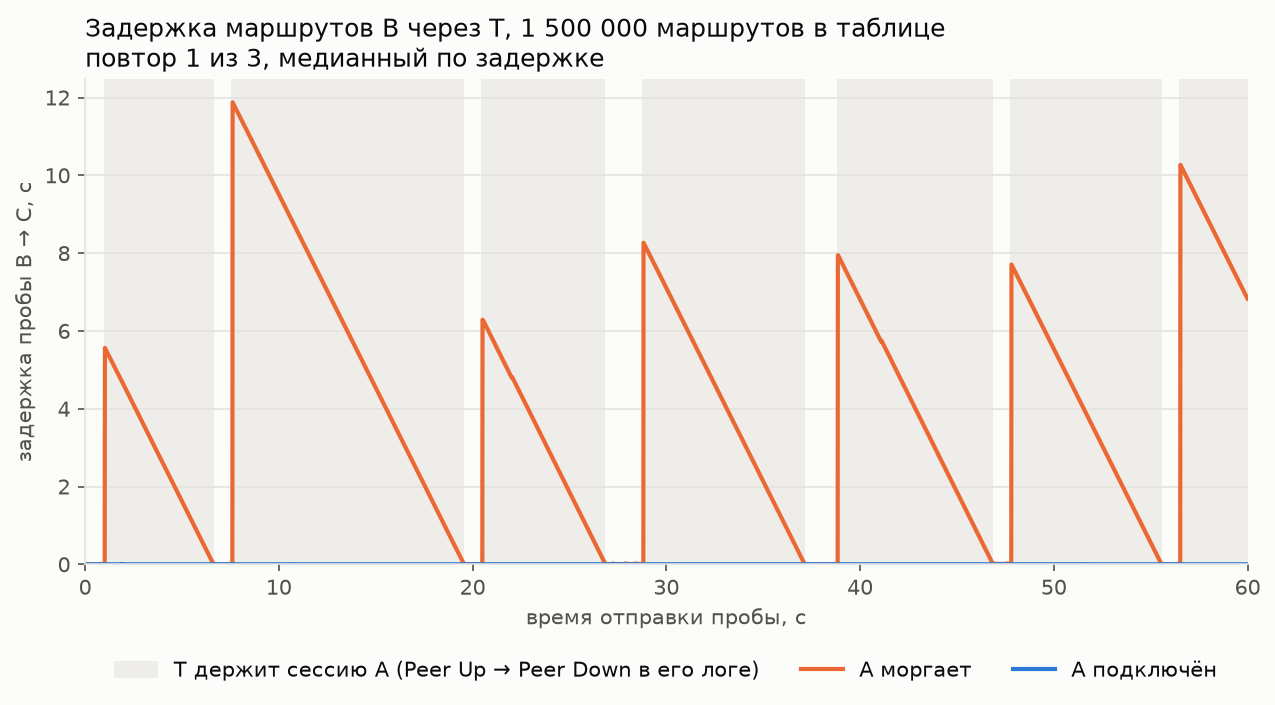
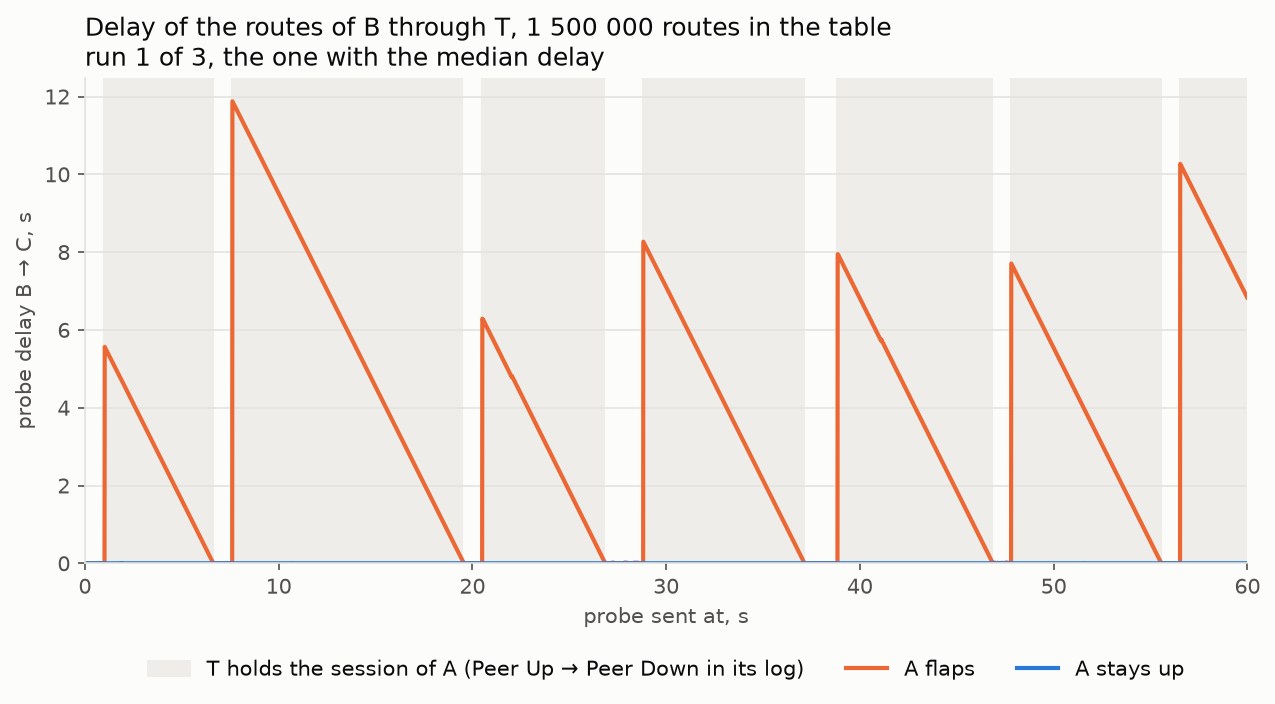
studies/2026-11-peer-flap: in English, as the other studies
Assisted-by: Claude Opus 5.5 <noreply@anthropic.com>

diff --git a/studies/2026-11-peer-flap/plots.py b/studies/2026-11-peer-flap/plots.py
@@ -45,23 +45,23 @@ def cell(values, fmt):
 
 
 def seconds(x):
-    return f"{x * 1000:.0f} мс" if x < 1 else f"{x:.1f} с".replace(".", ",")
+    return f"{x * 1000:.0f} ms" if x < 1 else f"{x:.1f} s"
 
 
 def summary():
     rows = [
-        ("задержка проб, медиана", lambda f: f["latency"]["p50"], seconds),
-        ("задержка проб, 99-й перцентиль", lambda f: f["latency"]["p99"], seconds),
-        ("задержка проб, максимум", lambda f: f["latency"]["max"], seconds),
-        ("пробы дошли до C", lambda f: f["probes"] / f["sent_probes"], lambda x: f"{x:.0%}"),
+        ("probe delay, median", lambda f: f["latency"]["p50"], seconds),
+        ("probe delay, 99th percentile", lambda f: f["latency"]["p99"], seconds),
+        ("probe delay, max", lambda f: f["latency"]["max"], seconds),
+        ("probes that reached C", lambda f: f["probes"] / f["sent_probes"], lambda x: f"{x:.0%}"),
         # peers_down: sessions T ended; peers_kept: B and C did not end theirs
-        ("сессий B и C оборвалось", lambda f: max(f["peers_down"], 0 if f["peers_kept"] else 1), lambda x: f"{x:.0f}"),
+        ("sessions of B and C that ended", lambda f: max(f["peers_down"], 0 if f["peers_kept"] else 1), lambda x: f"{x:.0f}"),
         # the first session of A came up before the phase
-        ("подъёмов A за 60 с", lambda f: sum(x["up"] > 0 for x in f["sessions"]), lambda x: f"{x:.0f}"),
-        ("пиковый RSS gobgpd", lambda f: f["rss_peak"] / GIB, lambda x: f"{x:.1f} ГиБ".replace(".", ",")),
+        ("times A came up in 60 s", lambda f: sum(x["up"] > 0 for x in f["sessions"]), lambda x: f"{x:.0f}"),
+        ("peak RSS of gobgpd", lambda f: f["rss_peak"] / GIB, lambda x: f"{x:.1f} GiB"),
     ]
     steady, flap = runs("steady"), runs("flap")
-    lines = ["| | A подключён | A моргает |", "|---|---|---|"]
+    lines = ["| | A stays up | A flaps |", "|---|---|---|"]
     for what, get, fmt in rows:
         lines.append(f"| {what} | {cell([get(f) for f in steady], fmt)} | {cell([get(f) for f in flap], fmt)} |")
     return "\n".join(lines) + "\n"
@@ -86,14 +86,14 @@ def topology(path):
     ax.set_xlim(-0.8, 13.8)
     ax.set_ylim(-0.6, 2.6)
     ax.axis("off")
-    box(ax, 1.1, 1.9, "B", "отправитель (blaster)\n1,5 млн маршрутов и пробы")
-    box(ax, 6.5, 1.9, "T", "gobgpd под тестом\nmaster f7daa917, 2 ядра")
-    box(ax, 11.9, 1.9, "C", "приёмник (sink)\nмеряет задержку проб")
-    box(ax, 6.5, 0.1, "A", "приёмник (flapper)\nрвёт сессию через 1 с", color=FLAP)
-    arrow(ax, 2.85, 1.9, 4.75, 1.9, "100 проб/с")
-    arrow(ax, 8.25, 1.9, 10.15, 1.9, "пробы")
+    box(ax, 1.1, 1.9, "B", "sender (blaster)\n1.5 M routes and probes")
+    box(ax, 6.5, 1.9, "T", "gobgpd under test\nmaster f7daa917, 2 CPUs")
+    box(ax, 11.9, 1.9, "C", "receiver (sink)\nrecords the probe delay")
+    box(ax, 6.5, 0.1, "A", "receiver (flapper)\ndrops its session after 1 s", color=FLAP)
+    arrow(ax, 2.85, 1.9, 4.75, 1.9, "100 probes/s")
+    arrow(ax, 8.25, 1.9, 10.15, 1.9, "probes")
     arrow(ax, 6.5, 1.35, 6.5, 0.65, "", color=FLAP, dashed=True)
-    ax.text(6.65, 1.0, "вся таблица при каждом подъёме A", ha="left", va="center", fontsize=8.5, color=FLAP)
+    ax.text(6.65, 1.0, "the whole table each time A comes up", ha="left", va="center", fontsize=8.5, color=FLAP)
     fig.savefig(path, dpi=150, bbox_inches="tight")
 
 
@@ -128,17 +128,17 @@ def delay(path):
     for lo, hi in held(flap):
         if hi > 0:
             ax.axvspan(max(lo, 0), min(hi, 60), color=BAND, zorder=0,
-                       label="T держит сессию A (Peer Up → Peer Down в его логе)" if first else None)
+                       label="T holds the session of A (Peer Up → Peer Down in its log)" if first else None)
             first = False
-    for f, color, name in ((flap, FLAP, "A моргает"), (steady, STEADY, "A подключён")):
+    for f, color, name in ((flap, FLAP, "A flaps"), (steady, STEADY, "A stays up")):
         t, d = zip(*f["probe_series"])
         ax.plot(t, d, color=color, linewidth=2, label=name)
     ax.set_xlim(0, 60)
     ax.set_ylim(0, None)
-    ax.set_xlabel("время отправки пробы, с", color=MUTED)
-    ax.set_ylabel("задержка пробы B → C, с", color=MUTED)
-    ax.set_title(f"Задержка маршрутов B через T, 1 500 000 маршрутов в таблице\n"
-                 f"повтор {flap['rep'] + 1} из 3, медианный по задержке", loc="left", color=INK, fontsize=12)
+    ax.set_xlabel("probe sent at, s", color=MUTED)
+    ax.set_ylabel("probe delay B → C, s", color=MUTED)
+    ax.set_title(f"Delay of the routes of B through T, 1 500 000 routes in the table\n"
+                 f"run {flap['rep'] + 1} of 3, the one with the median delay", loc="left", color=INK, fontsize=12)
     ax.grid(axis="y", color=GRID, linewidth=0.8)
     for side in ("top", "right"):
         ax.spines[side].set_visible(False)

diff --git a/studies/2026-11-peer-flap/README.md b/studies/2026-11-peer-flap/README.md
@@ -1,46 +1,46 @@
-# Моргающий сосед рядом с большой таблицей (ноябрь 2026)
+# A flapping peer next to a large table (November 2026)
 
-Вопрос: что будет с остальными соседями gobgpd, если один сосед бесконечно переподключается. Рвутся ли их сессии, теряются ли маршруты, насколько маршруты задерживаются.
+The question: what happens to the other peers of gobgpd when one peer keeps reconnecting. Do their sessions end, are routes lost, how long are routes held up.
 
-![Хосты стенда](results/topology.png)
+![The hosts of the bench](results/topology.png)
 
-## Сценарий
+## Scenario
 
-T — gobgpd под тестом. B шлёт ему маршруты, C и A их получают.
+T is the gobgpd under test. B sends it routes, C and A receive them.
 
-- B загружает в T 1 500 000 маршрутов. У каждого маршрута свой community, поэтому T не может упаковать их по несколько в один UPDATE. Для T это худший случай.
-- Затем 60 с B шлёт 100 проб в секунду. Проба — отдельный маршрут /32, время отправки записано в его large community. C записывает, когда каждая проба пришла.
-- Два варианта:
-  - **A подключён** — сессия держится всё время;
-  - **A моргает** — рвёт TCP без NOTIFICATION через 1 с после подъёма и переподключается раз в 1 с.
-- Hold time у B и C 3 с, это минимум по RFC 4271. Как настоящий роутер, B и C рвут сессию, если T молчит 3 с, и T рвёт её, если 3 с молчат они.
-- gobgpd — master [`f7daa917`](https://github.com/osrg/gobgp/commit/f7daa917), 2 ядра. Каждый вариант прогнан 3 раза.
+- B loads 1 500 000 routes into T. Every route carries a community of its own, so T cannot pack several of them into one UPDATE: the worst case for T.
+- Then for 60 s B sends 100 probes a second. A probe is a /32 route of its own with the time it was sent in a large community. C records when each probe came.
+- Two variants:
+  - **A stays up**: its session holds the whole time;
+  - **A flaps**: it drops TCP without a NOTIFICATION 1 s after its session came up and tries to connect again every 1 s.
+- B and C offer a Hold Time of 3 s, the least RFC 4271 allows. Like a real router, B and C end the session when T is silent for 3 s, and T ends it when they are.
+- gobgpd is master [`f7daa917`](https://github.com/osrg/gobgp/commit/f7daa917) on 2 CPUs. Each variant ran 3 times.
 
-## Результат
+## Result
 
-| | A подключён | A моргает |
+| | A stays up | A flaps |
 |---|---|---|
-| пробы дошли до C | 100% | 100% |
-| сессий B и C оборвалось | 0 | 0 |
-| задержка проб, медиана | 1 мс | 3,6 с (3,2–3,8) |
-| задержка проб, 99-й перцентиль | 2 мс | 11,3 с (9,0–12,4) |
-| задержка проб, максимум | 12 мс (8–16) | 11,9 с (9,4–13,0) |
-| подъёмов A за 60 с | 0 | 7 |
-| пиковый RSS gobgpd | 4,4 ГиБ (4,3–4,6) | 5,2 ГиБ (4,9–5,2) |
+| probes that reached C | 100% | 100% |
+| sessions of B and C that ended | 0 | 0 |
+| probe delay, median | 1 ms | 3.6 s (3.2–3.8) |
+| probe delay, 99th percentile | 2 ms | 11.3 s (9.0–12.4) |
+| probe delay, max | 12 ms (8–16) | 11.9 s (9.4–13.0) |
+| times A came up in 60 s | 0 | 7 |
+| peak RSS of gobgpd | 4.4 GiB (4.3–4.6) | 5.2 GiB (4.9–5.2) |
 
-Медиана трёх прогонов, в скобках минимум и максимум; в каждом прогоне 6000 проб. Та же таблица — в [summary.md](results/summary.md).
+Median of the 3 runs, min–max in brackets; 6000 probes in every run. The same table is in [summary.md](results/summary.md).
 
-![Задержка проб](results/delay.png)
+![Probe delay](results/delay.png)
 
-Ничего не падает, и всё доходит. Но каждый подъём A останавливает маршруты от B на 5,3–13 с. Серые полосы на графике — время, пока T держал сессию A, по его логу. Наибольшая задержка в каждой полосе равна её длине, остальные пробы ждут остаток. Вне полос задержка не больше 0,1 с. Сам A получает за свою секунду 0 маршрутов, и T замечает его обрыв только в конце полосы. Поэтому A поднимается раз в 6–14 с, а не раз в 2 с.
+Nothing breaks and everything arrives. But each time A comes up, the routes of B stop for 5.3–13 s. The grey bands are the time T held the session of A, from its log. The largest delay in each band equals its length; the other probes wait for what is left of it. Outside the bands no probe waits more than 0.1 s. A itself gets no route in its 1 s, and T sees its session end only at the end of the band, so A comes up every 6–14 s rather than every 2 s.
 
-Почему так, по коду gobgpd (стенд это не измеряет): когда A поднимается, T собирает для него всю таблицу в 1,5 млн маршрутов. Маршруты B T обрабатывает по одному и раздаёт каждый соседям по очереди. Пока таблица для A собирается, раздача встаёт на A, и следующие маршруты B ждут за ней. Это замок `routeRefreshInProgress` из [osrg/gobgp#3349](https://github.com/osrg/gobgp/pull/3349).
+Why, from the gobgpd code (the bench does not measure this): when A comes up, T builds the whole table of 1.5 M routes for it. T handles the routes of B one by one and hands each to the peers in turn. While the table for A is built, the hand-out stops at A, and the next routes of B wait behind it. This is the `routeRefreshInProgress` lock of [osrg/gobgp#3349](https://github.com/osrg/gobgp/pull/3349).
 
-Сессии B и C при этом живы с обеих сторон: B и C не рвут их, значит KEEPALIVE от T шли и во время остановки, и в логе T нет Peer Down для B и C. Почему T не рвёт сессию B, хотя до 13 с (в худшем прогоне) не читает от неё сообщения, — тоже по коду: пока маршрут ждёт обработки, T перезапускает hold timer ([`bdfa79f7`](https://github.com/osrg/gobgp/commit/bdfa79f7)).
+The sessions of B and C stay up on both sides: B and C do not end them, so T kept sending KEEPALIVEs during the stalls, and the log of T has no Peer Down for B or C. Why T does not end the session of B, though it reads nothing from it for up to 13 s in the worst run, is again from the code: while a message waits to be handled, T restarts the hold timer ([`bdfa79f7`](https://github.com/osrg/gobgp/commit/bdfa79f7)).
 
-## Как повторить
+## Run it
 
-Из корня этого репозитория, gobgpd собран из [`f7daa917`](https://github.com/osrg/gobgp/commit/f7daa917) под linux/arm64 (`GOOS=linux GOARCH=arm64 CGO_ENABLED=0 go build -o ../gobgpd-f7daa917 ./cmd/gobgpd` в клоне osrg/gobgp):
+From the root of this repository, with gobgpd built from [`f7daa917`](https://github.com/osrg/gobgp/commit/f7daa917) for linux/arm64 (`GOOS=linux GOARCH=arm64 CGO_ENABLED=0 go build -o ../gobgpd-f7daa917 ./cmd/gobgpd` in a clone of osrg/gobgp):
 
 ```bash
 S=studies/2026-11-peer-flap
@@ -48,4 +48,4 @@ S=studies/2026-11-peer-flap
 uv run $S/plots.py --results results
 ```
 
-Около 25 минут. Docker с 4 CPU и 8 ГиБ на Apple M2: gobgpd на CPU 0–1, остальные участники на CPU 2–3. Loopback, eBGP, без политик: абсолютные цифры на боевом сервере будут другими.
+About 25 minutes. Docker with 4 CPUs and 8 GiB on an Apple M2: gobgpd on CPUs 0–1, the other peers on CPUs 2–3. Loopback, eBGP, no policies: the absolute numbers on a production server will differ.

diff --git a/studies/2026-11-peer-flap/results/summary.md b/studies/2026-11-peer-flap/results/summary.md
@@ -1,9 +1,9 @@
-| | A подключён | A моргает |
+| | A stays up | A flaps |
 |---|---|---|
-| задержка проб, медиана | 1 мс | 3,6 с (3,2 с–3,8 с) |
-| задержка проб, 99-й перцентиль | 2 мс | 11,3 с (9,0 с–12,4 с) |
-| задержка проб, максимум | 12 мс (8 мс–16 мс) | 11,9 с (9,4 с–13,0 с) |
-| пробы дошли до C | 100% | 100% |
-| сессий B и C оборвалось | 0 | 0 |
-| подъёмов A за 60 с | 0 | 7 |
-| пиковый RSS gobgpd | 4,4 ГиБ (4,3 ГиБ–4,6 ГиБ) | 5,2 ГиБ (4,9 ГиБ–5,2 ГиБ) |
+| probe delay, median | 1 ms | 3.6 s (3.2 s–3.8 s) |
+| probe delay, 99th percentile | 2 ms | 11.3 s (9.0 s–12.4 s) |
+| probe delay, max | 12 ms (8 ms–16 ms) | 11.9 s (9.4 s–13.0 s) |
+| probes that reached C | 100% | 100% |
+| sessions of B and C that ended | 0 | 0 |
+| times A came up in 60 s | 0 | 7 |
+| peak RSS of gobgpd | 4.4 GiB (4.3 GiB–4.6 GiB) | 5.2 GiB (4.9 GiB–5.2 GiB) |
